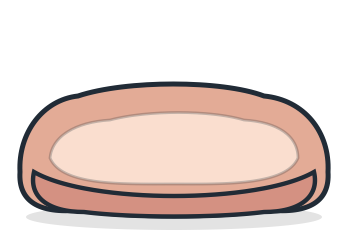
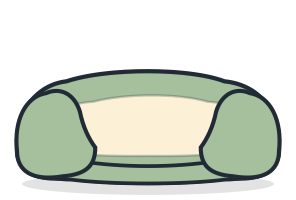
Refine dog bed into compact sage crescent cushion

diff --git a/Sources/Pet/DogBedPanel.swift b/Sources/Pet/DogBedPanel.swift
@@ -3,7 +3,7 @@ import AppKit
 /// A small cushion in the screen corner. The empty bed is click-through;
 /// one click on the sleeping dog brings him back out.
 final class DogBedPanel: NSPanel {
-    static let size = CGSize(width: 174, height: 118)
+    static let size = CGSize(width: 148, height: 100)
     private let bed = DogBedView(frame: CGRect(origin: .zero, size: size))
     var onWake: (() -> Void)?
 
@@ -49,10 +49,11 @@ final class DogBedPanel: NSPanel {
     }
 
     func acceptsDrop(at pointer: CGPoint, dogRect: CGRect) -> Bool {
-        let target = frame.insetBy(dx: -14, dy: -12)
+        // Keep the drop gesture forgiving even though the visible cushion is smaller.
+        let target = frame.insetBy(dx: -20, dy: -16)
         if target.contains(pointer) { return true }
         let overlap = target.intersection(dogRect)
-        return !overlap.isNull && overlap.width > 45 && overlap.height > 35
+        return !overlap.isNull && overlap.width > 40 && overlap.height > 30
     }
 
     func tick(time: TimeInterval) {
@@ -76,16 +77,19 @@ final class DogBedView: NSView {
         guard let ctx = NSGraphicsContext.current?.cgContext else { return }
         ctx.saveGState()
         ctx.interpolationQuality = .high
+        // Draw in the original art coordinates, then fit the complete bed into
+        // the smaller screen-corner panel without changing the dog's proportions.
+        ctx.scaleBy(x: bounds.width / 174, y: bounds.height / 118)
         let ink = NSColor(red: 0.13, green: 0.17, blue: 0.21, alpha: 1)
         let bolster = dropHighlighted
-            ? NSColor(red: 0.95, green: 0.72, blue: 0.61, alpha: 1)
-            : NSColor(red: 0.89, green: 0.67, blue: 0.59, alpha: 1)
-        let inside = NSColor(red: 0.98, green: 0.87, blue: 0.81, alpha: 1)
+            ? NSColor(red: 0.77, green: 0.86, blue: 0.69, alpha: 1)
+            : NSColor(red: 0.65, green: 0.75, blue: 0.61, alpha: 1)
+        let inside = NSColor(red: 0.99, green: 0.94, blue: 0.84, alpha: 1)
 
         ctx.setFillColor(NSColor.black.withAlphaComponent(0.11).cgColor)
         ctx.fillEllipse(in: CGRect(x: 13, y: 3, width: 148, height: 13))
 
-        // One plump outline, with a softer inset where the dog curls up.
+        // A low sage base with a cream hollow for the sleeping dog.
         let cushion = CGMutablePath()
         cushion.move(to: CGPoint(x: 10, y: 32))
         cushion.addCurve(to: CGPoint(x: 39, y: 70), control1: CGPoint(x: 9, y: 51), control2: CGPoint(x: 21, y: 68))
@@ -118,7 +122,7 @@ final class DogBedView: NSView {
             ctx.restoreGState()
         }
 
-        // The front pillow edge overlaps the sprite a little so it feels nested.
+        // A low front lip and two curling side bolsters make a little nest.
         let lip = CGMutablePath()
         lip.move(to: CGPoint(x: 17, y: 32))
         lip.addCurve(to: CGPoint(x: 157, y: 32), control1: CGPoint(x: 45, y: 16), control2: CGPoint(x: 129, y: 16))
@@ -127,19 +131,41 @@ final class DogBedView: NSView {
         lip.addCurve(to: CGPoint(x: 17, y: 32), control1: CGPoint(x: 25, y: 12), control2: CGPoint(x: 14, y: 19))
         lip.closeSubpath()
         ctx.addPath(lip)
-        ctx.setFillColor(NSColor(red: 0.83, green: 0.57, blue: 0.51, alpha: 1).cgColor)
+        ctx.setFillColor(bolster.cgColor)
         ctx.fillPath()
         ctx.addPath(lip); ctx.setStrokeColor(ink.cgColor); ctx.setLineWidth(2.2); ctx.strokePath()
 
+        let leftArm = CGMutablePath()
+        leftArm.move(to: CGPoint(x: 10, y: 29))
+        leftArm.addCurve(to: CGPoint(x: 27, y: 63), control1: CGPoint(x: 8, y: 47), control2: CGPoint(x: 15, y: 61))
+        leftArm.addCurve(to: CGPoint(x: 47, y: 52), control1: CGPoint(x: 36, y: 67), control2: CGPoint(x: 44, y: 62))
+        leftArm.addCurve(to: CGPoint(x: 56, y: 31), control1: CGPoint(x: 49, y: 42), control2: CGPoint(x: 53, y: 35))
+        leftArm.addCurve(to: CGPoint(x: 37, y: 14), control1: CGPoint(x: 56, y: 19), control2: CGPoint(x: 49, y: 15))
+        leftArm.addCurve(to: CGPoint(x: 10, y: 29), control1: CGPoint(x: 19, y: 11), control2: CGPoint(x: 10, y: 17))
+        leftArm.closeSubpath()
+        ctx.addPath(leftArm); ctx.setFillColor(bolster.cgColor); ctx.fillPath()
+        ctx.addPath(leftArm); ctx.setStrokeColor(ink.cgColor); ctx.setLineWidth(2.4); ctx.strokePath()
+
+        let rightArm = CGMutablePath()
+        rightArm.move(to: CGPoint(x: 164, y: 29))
+        rightArm.addCurve(to: CGPoint(x: 147, y: 63), control1: CGPoint(x: 166, y: 47), control2: CGPoint(x: 159, y: 61))
+        rightArm.addCurve(to: CGPoint(x: 127, y: 52), control1: CGPoint(x: 138, y: 67), control2: CGPoint(x: 130, y: 62))
+        rightArm.addCurve(to: CGPoint(x: 118, y: 31), control1: CGPoint(x: 125, y: 42), control2: CGPoint(x: 121, y: 35))
+        rightArm.addCurve(to: CGPoint(x: 137, y: 14), control1: CGPoint(x: 118, y: 19), control2: CGPoint(x: 125, y: 15))
+        rightArm.addCurve(to: CGPoint(x: 164, y: 29), control1: CGPoint(x: 155, y: 11), control2: CGPoint(x: 164, y: 17))
+        rightArm.closeSubpath()
+        ctx.addPath(rightArm); ctx.setFillColor(bolster.cgColor); ctx.fillPath()
+        ctx.addPath(rightArm); ctx.setStrokeColor(ink.cgColor); ctx.setLineWidth(2.4); ctx.strokePath()
+
         if occupied {
-            for (index, mark) in ["z", "Z", "Z"].enumerated() {
+            for (index, mark) in ["z", "Z"].enumerated() {
                 let i = CGFloat(index)
                 let rise = 2 * sin(sleepPhase * 1.3 - i * 0.6)
                 let attrs: [NSAttributedString.Key: Any] = [
                     .font: NSFont.systemFont(ofSize: 10 + i * 3, weight: .semibold),
                     .foregroundColor: NSColor(red: 0.43, green: 0.42, blue: 0.61, alpha: 0.66 + i * 0.11)
                 ]
-                (mark as NSString).draw(at: CGPoint(x: 119 + i * 14, y: 65 + i * 18 + rise),
+                (mark as NSString).draw(at: CGPoint(x: 128 + i * 13, y: 70 + i * 17 + rise),
                                         withAttributes: attrs)
             }
         }

diff --git a/AGENTS.md b/AGENTS.md
@@ -130,7 +130,9 @@ The Recent 6 app-ring pass added a persisted Pinned / Recent 6 control in Pet ho
 
 The full-screen tray fix gives the ring panel macOS's `canJoinAllApplications` collection behavior, so it can appear over another app's full-screen Space when Pet is hovered there. Screen wake now reorders an already-open ring alongside Pet, and `--snapshot` reports `ringVisible` and `ringOnActiveSpace` for diagnosis. The release build, self-test, pose/ring/corner renders, installation, code signature, and running snapshot passed. A direct full-screen hover check remains for the owner because UI automation timed out while opening a test app.
 
[2 lines of base64/hex data omitted]
+
+The 2026-09-25 cushion refinement uses the selected small crescent design: sage-green side bolsters, a cream hollow, and a low front lip. The bed shrank from 174×118 to 148×100 pt; its invisible drag target remains forgiving. The original atlas sleeping pose, selected coat, two floating Zs, full-screen presence, click-to-wake behavior, and persisted sleep state are unchanged. The occupied and empty preview PNGs were refreshed, and the release build and self-test passed.
 
 ## Known gaps / ideas not built
 
